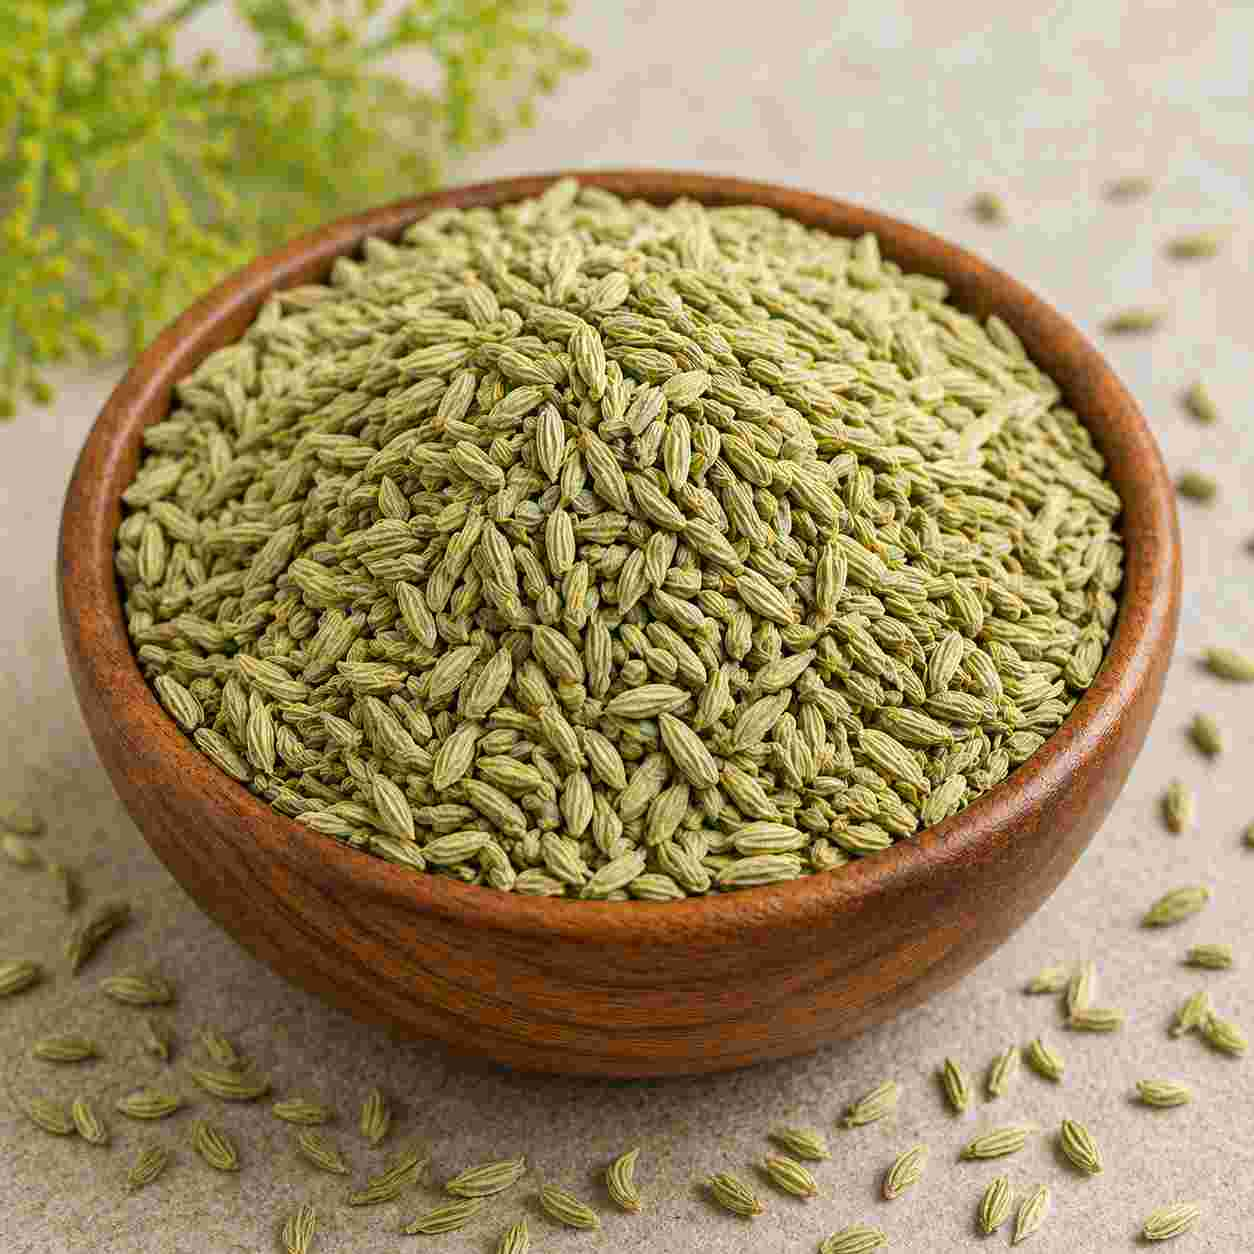
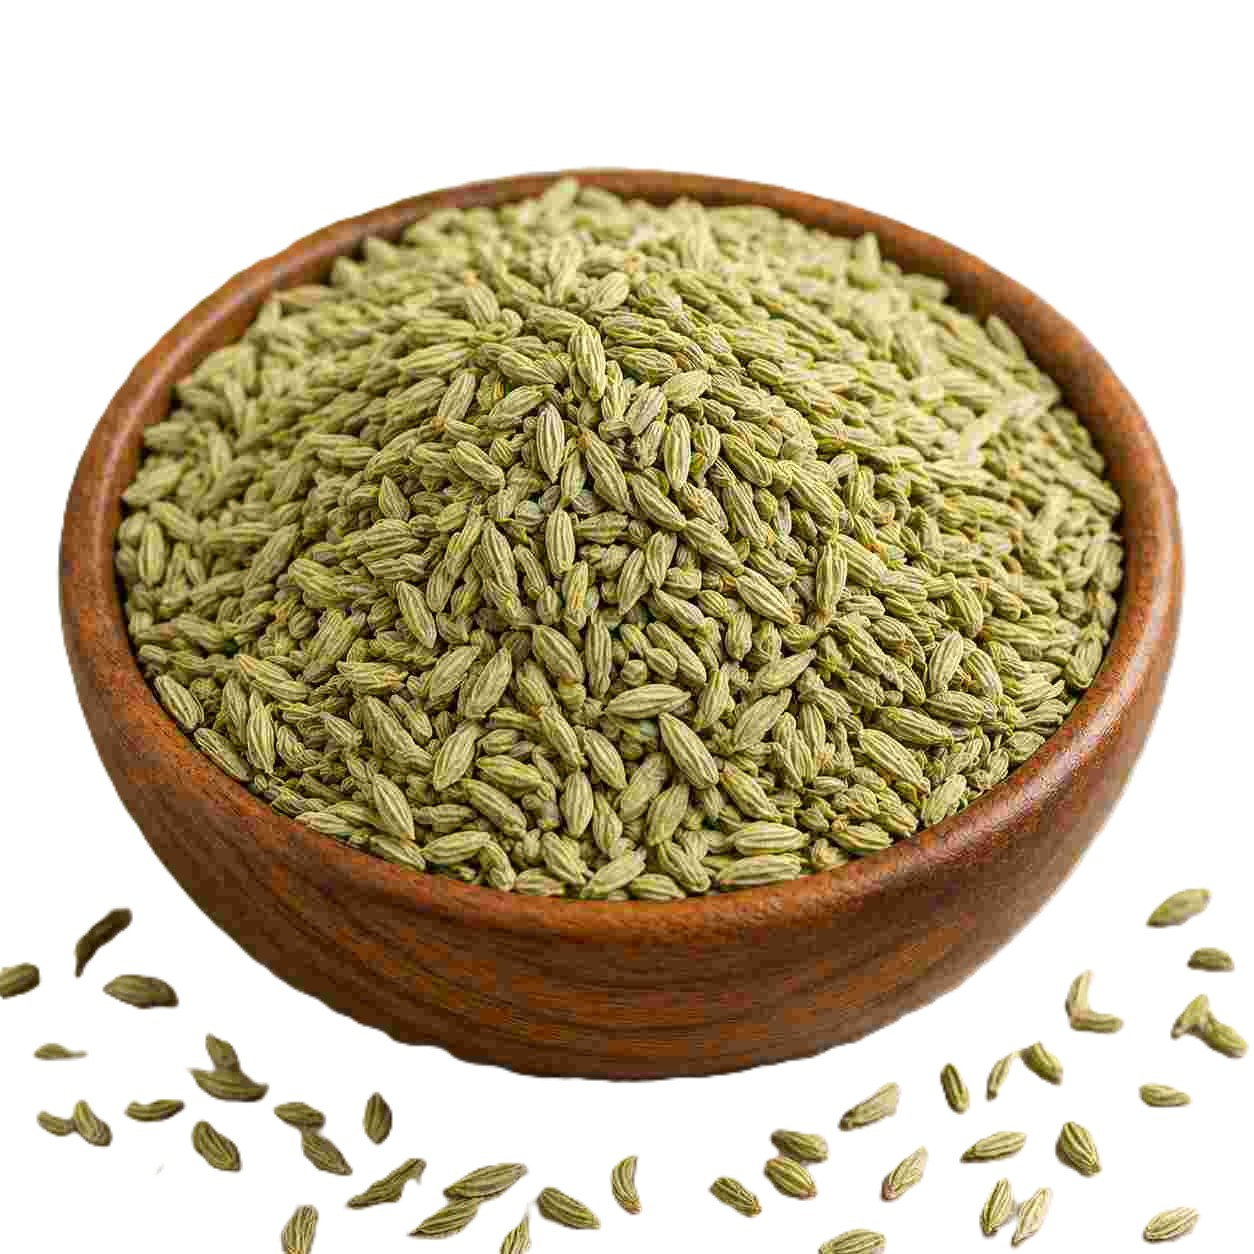
adding grocery

diff --git a/src/app/features/grocery/component/grocery/grocery.component.css b/src/app/features/grocery/component/grocery/grocery.component.css
@@ -64,7 +64,8 @@
 }
 
 .product-card:hover {
-  background: green;
+  /* background: green; */
+  background: black;
   transform: translateY(-5px);
 }
 
@@ -106,12 +107,24 @@
   margin-top: 12px;
   gap: 10px;
 }
-
+/* 
 .price {
   color: #28a745;
   font-weight: bold;
   font-size: 16px;
   margin: 0;
+} */
+
+.price {
+  color: #1a1a1a;
+  font-weight: 700;
+  font-size: 18px;
+  margin: 0;
+  padding: 4px 10px;
+  background: linear-gradient(90deg, #ffe082, #ffca28);
+  border-radius: 6px;
+  display: inline-block;
+  box-shadow: 0 2px 6px rgba(0,0,0,0.1);
 }
 
 /* ================= QTY BUTTON ================= */
@@ -136,6 +149,8 @@
   background: #f3f4f6;
 }
 
+
+
 .qty-box button:last-child {
   background: #22c55e;
   color: white;
@@ -148,6 +163,8 @@
 .qty-box span {
   font-weight: 600;
 }
+
+
 
 /* ================= CART ================= */
 .cart-preview {
@@ -237,4 +254,32 @@
   .products h2 {
     font-size: 26px;
   }
+}
+
+/* Wrap quantity label + buttons */
+.qty-container {
+  display: flex;
+  flex-direction: column;
+  align-items: center;
+  gap: 6px;
+}
+
+/* Quantity label like "1 kg" */
+.qty-label {
+  font-size: 13px;
+  font-weight: 600;
+  color: #2563eb;
+  background: #e0edff;
+  padding: 4px 10px;
+  border-radius: 6px;
+  display: inline-block;
+  min-width: 50px;
+  text-align: center;
+}
+
+/* Keep your existing qty-box but improve spacing */
+.qty-box {
+  display: flex;
+  align-items: center;
+  gap: 8px;
 }

diff --git a/src/app/features/grocery/component/grocery/grocery.component.html b/src/app/features/grocery/component/grocery/grocery.component.html
@@ -16,6 +16,10 @@
     <div class="product-card" *ngFor="let product of filteredProducts">
       <img [src]="product.image" [alt]="product.name" />
       <h3>{{ product.name }}</h3>
+    
+       <div class="qty-label">
+         {{ product.quantity }}
+       </div>
 
       <div class="card-footer">
         <p class="price">Rs. {{ product.price }}</p>
@@ -26,6 +30,7 @@
           <button (click)="increaseQty(product)">+</button>
         </div>
       </div>
+      
     </div>
   </div>
 